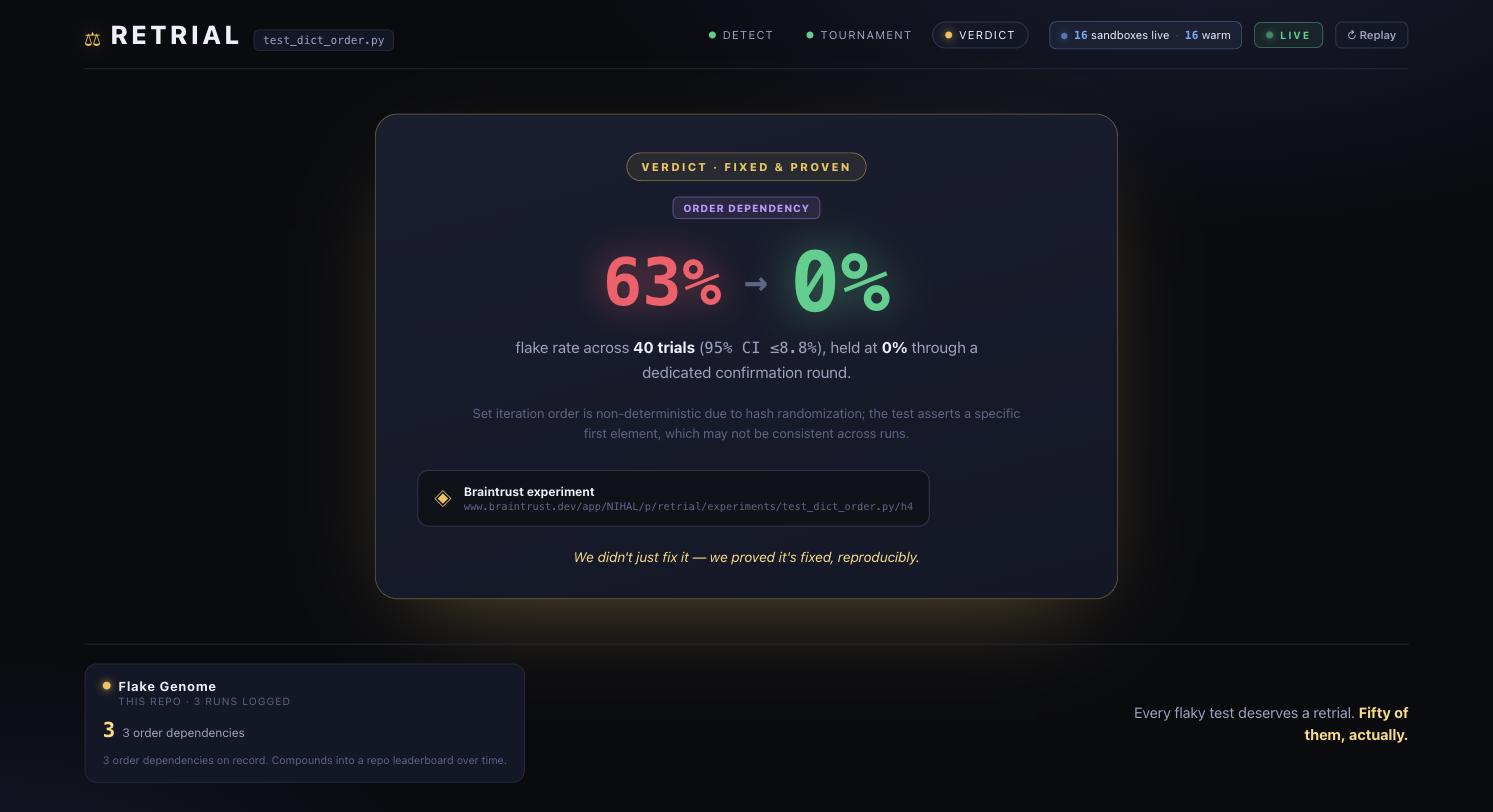
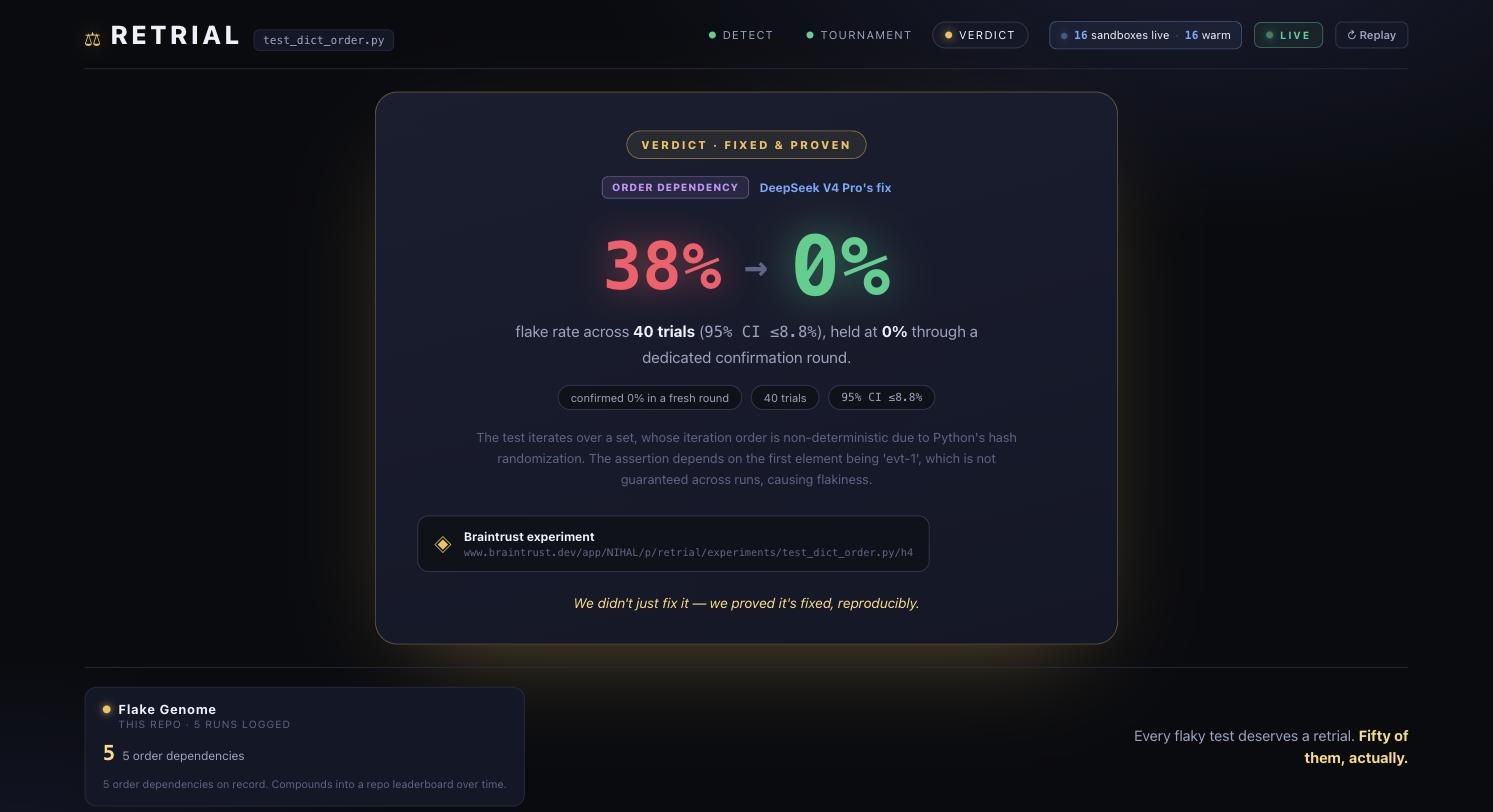
UI polish: model attribution on lanes+verdict, elimination stamps, confirmation chips, CI dedupe; re-recorded README GIF + verdict still with new UI

diff --git a/ui/src/components/TournamentPhase.tsx b/ui/src/components/TournamentPhase.tsx
@@ -1,10 +1,12 @@
-import { ciText } from '../format';
 import { FlakeMeter } from './FlakeMeter';
 import { TrialGrid } from './TrialGrid';
+import { modelForHypothesis } from '../models';
 import type { Hypothesis } from '../types';
 
 interface Props {
   hypotheses: Hypothesis[];
+  // real model slugs (round-robined across hypotheses in order); null => omit
+  modelNames: string[] | null;
 }
 
 const CAUSE_LABEL: Record<string, string> = {
@@ -19,7 +21,7 @@ const causeLabel = (c: string) =>
 
 // Act 2 — the fix tournament. One lane per hypothesis; each races its patched
 // test through fresh reruns. Losers grey out with a strike.
-export function TournamentPhase({ hypotheses }: Props) {
+export function TournamentPhase({ hypotheses, modelNames }: Props) {
   return (
     <section className="phase tournament-phase">
       <header className="phase-head">
@@ -30,15 +32,15 @@ export function TournamentPhase({ hypotheses }: Props) {
       </header>
 
       <div className="lanes">
-        {hypotheses.map((h) => (
-          <Lane key={h.id} h={h} />
+        {hypotheses.map((h, i) => (
+          <Lane key={h.id} h={h} model={modelForHypothesis(modelNames, i)} />
         ))}
       </div>
     </section>
   );
 }
 
-function Lane({ h }: { h: Hypothesis }) {
+function Lane({ h, model }: { h: Hypothesis; model: string | null }) {
   const eliminated = h.status === 'eliminated';
   const winner = h.status === 'winner';
   const statusText =
@@ -49,11 +51,12 @@ function Lane({ h }: { h: Hypothesis }) {
       <div className="lane-left">
         <div className="lane-head">
           <span className={`cause-tag cause-${h.causeClass}`}>{causeLabel(h.causeClass)}</span>
+          {model && <span className="model-chip">· {model}</span>}
           <span className={`lane-status status-${h.status}`}>{statusText}</span>
         </div>
         <p className="lane-explanation">{h.explanation}</p>
         {eliminated && h.eliminatedReason && (
-          <p className="lane-reason">✕ {h.eliminatedReason}</p>
+          <p className="lane-reason">ELIMINATED — {h.eliminatedReason}</p>
         )}
       </div>
 
@@ -70,9 +73,6 @@ function Lane({ h }: { h: Hypothesis }) {
           ci={h.wilsonCi}
           label={winner ? 'flake rate' : 'live flake rate'}
         />
-        {(h.status === 'verified' || winner) && h.wilsonCi && (
-          <div className="lane-ci mono">{ciText(h.wilsonCi)}</div>
-        )}
       </div>
 
       {eliminated && <div className="lane-strike" aria-hidden="true" />}

diff --git a/ui/src/components/TournamentBoard.tsx b/ui/src/components/TournamentBoard.tsx
@@ -1,5 +1,6 @@
 import { useEventStream } from '../useEventStream';
 import { useDaytonaHealth, type PoolHealth } from '../useDaytonaHealth';
+import { modelForHypothesis } from '../models';
 import type { ConnectionMode, Phase } from '../types';
 import { DiagnosingView } from './DiagnosingView';
 import { DetectPhase } from './DetectPhase';
@@ -43,8 +44,12 @@ export function TournamentBoard({ onRestart }: Props) {
     genome,
     prUrl,
   } = state;
-  const winnerHyp = winner ? hypotheses.find((h) => h.id === winner.id) : undefined;
-  const bestHyp = quarantine ? hypotheses.find((h) => h.id === quarantine.bestId) : undefined;
+  const winnerIdx = winner ? hypotheses.findIndex((h) => h.id === winner.id) : -1;
+  const bestIdx = quarantine ? hypotheses.findIndex((h) => h.id === quarantine.bestId) : -1;
+  const winnerHyp = winnerIdx >= 0 ? hypotheses[winnerIdx] : undefined;
+  const bestHyp = bestIdx >= 0 ? hypotheses[bestIdx] : undefined;
+  const winnerModel = modelForHypothesis(diagnoseModelNames, winnerIdx);
+  const bestModel = modelForHypothesis(diagnoseModelNames, bestIdx);
 
   return (
     <div className="board">
@@ -67,9 +72,17 @@ export function TournamentBoard({ onRestart }: Props) {
         {phase === 'detect' && (
           <DetectPhase detect={detect} expectedTrials={plannedTrials ?? DETECT_EXPECTED} />
         )}
-        {phase === 'tournament' && <TournamentPhase hypotheses={hypotheses} />}
+        {phase === 'tournament' && (
+          <TournamentPhase hypotheses={hypotheses} modelNames={diagnoseModelNames} />
+        )}
         {phase === 'winner' && winner && (
-          <WinnerCard winner={winner} hypothesis={winnerHyp} detect={detect} prUrl={prUrl} />
+          <WinnerCard
+            winner={winner}
+            hypothesis={winnerHyp}
+            detect={detect}
+            prUrl={prUrl}
+            model={winnerModel}
+          />
         )}
         {phase === 'quarantine' && quarantine && (
           <QuarantineCard
@@ -77,6 +90,7 @@ export function TournamentBoard({ onRestart }: Props) {
             bestHypothesis={bestHyp}
             detect={detect}
             prUrl={prUrl}
+            model={bestModel}
           />
         )}
       </main>

diff --git a/ui/src/components/WinnerCard.tsx b/ui/src/components/WinnerCard.tsx
@@ -7,6 +7,7 @@ interface Props {
   hypothesis: Hypothesis | undefined;
   detect: DetectState;
   prUrl: string | null;
+  model: string | null; // prettified winning model, when known
 }
 
 const CAUSE_LABEL: Record<string, string> = {
@@ -20,11 +21,15 @@ const causeLabel = (c: string) =>
 
 // The verdict. Clean, no confetti: the before→after number, the CI, and the
 // two governance receipts (Braintrust permalink + the opened PR).
-export function WinnerCard({ winner, hypothesis, detect, prUrl }: Props) {
+export function WinnerCard({ winner, hypothesis, detect, prUrl, model }: Props) {
   // prefer the confirmed winner's own numbers; fall back to detect/hypothesis
   const before = winner.origFlakeRate ?? detect.flakeRate ?? 0.48;
   const trials = hypothesis?.trials.length ?? 50;
   const ci = winner.wilsonCi ?? hypothesis?.wilsonCi ?? null;
+  const confirmChip =
+    winner.confirmTrials != null
+      ? `confirmed ${Math.round(winner.confirmFlakeRate * winner.confirmTrials)}/${winner.confirmTrials} in a fresh round`
+      : `confirmed ${pct(winner.confirmFlakeRate)} in a fresh round`;
 
   return (
     <section className="phase winner-phase">
@@ -36,6 +41,7 @@ export function WinnerCard({ winner, hypothesis, detect, prUrl }: Props) {
             <span className={`cause-tag cause-${hypothesis.causeClass}`}>
               {causeLabel(hypothesis.causeClass)}
             </span>
+            {model && <span className="winner-model">{model}'s fix</span>}
           </div>
         )}
 
@@ -55,6 +61,12 @@ export function WinnerCard({ winner, hypothesis, detect, prUrl }: Props) {
           , held at <strong>{pct(winner.confirmFlakeRate)}</strong> through a dedicated
           confirmation round.
         </p>
+
+        <div className="verdict-chips">
+          <span className="verdict-chip">{confirmChip}</span>
+          <span className="verdict-chip">{trials} trials</span>
+          {ci && <span className="verdict-chip mono">95% CI {ciUpper(ci)}</span>}
+        </div>
 
         {hypothesis && <p className="winner-explanation">{hypothesis.explanation}</p>}
 

diff --git a/ui/src/components/QuarantineCard.tsx b/ui/src/components/QuarantineCard.tsx
@@ -7,6 +7,7 @@ interface Props {
   bestHypothesis: Hypothesis | undefined;
   detect: DetectState;
   prUrl: string | null;
+  model: string | null; // prettified best-effort model, when known
 }
 
 const CAUSE_LABEL: Record<string, string> = {
@@ -21,7 +22,7 @@ const causeLabel = (c: string) =>
 // The no-dead-end verdict: nothing stabilized the test, so we quarantine it
 // WITH the full evidence dossier. Amber tone — a real, useful outcome, not a
 // failure. The receipts still ship (Braintrust autopsy + quarantine PR).
-export function QuarantineCard({ quarantine, bestHypothesis, detect, prUrl }: Props) {
+export function QuarantineCard({ quarantine, bestHypothesis, detect, prUrl, model }: Props) {
   const before = detect.flakeRate ?? 0.48;
 
   return (
@@ -47,7 +48,8 @@ export function QuarantineCard({ quarantine, bestHypothesis, detect, prUrl }: Pr
           </div>
         </div>
         <p className="quarantine-ci mono">
-          best candidate over {quarantine.trials} trials · {ciText(quarantine.wilsonCi)}
+          best candidate{model ? ` from ${model}` : ''} over {quarantine.trials} trials ·{' '}
+          {ciText(quarantine.wilsonCi)}
         </p>
 
         {bestHypothesis && (
@@ -55,6 +57,7 @@ export function QuarantineCard({ quarantine, bestHypothesis, detect, prUrl }: Pr
             <span className={`cause-tag cause-${bestHypothesis.causeClass}`}>
               {causeLabel(bestHypothesis.causeClass)}
             </span>
+            {model && <span className="model-chip">· {model}</span>}
             <span className="quarantine-best-label">closest cause</span>
             <p className="quarantine-best-exp">{bestHypothesis.explanation}</p>
           </div>

diff --git a/ui/src/models.ts b/ui/src/models.ts
@@ -1,0 +1,38 @@
+// Model attribution helpers. The engine round-robins the models from the
+// `diagnosing` event across hypotheses IN ORDER (h1→models[0], h2→models[1],…),
+// so a hypothesis's model is looked up by its creation index. Names are shown
+// ONLY when real slugs arrived — never fabricated.
+
+const KNOWN: Record<string, string> = {
+  glm: 'GLM',
+  deepseek: 'DeepSeek',
+  kimi: 'Kimi',
+  minimax: 'MiniMax',
+  qwen: 'Qwen',
+  llama: 'Llama',
+};
+
+// Prettify a real Fireworks slug: strip any path prefix and turn the "p"
+// version separator back into a dot ("glm-5p2" -> "GLM 5.2"). Applied ONLY to
+// slugs that actually came from the engine.
+export function prettyModel(slug: string): string {
+  const base = slug.split('/').pop() ?? slug;
+  return base
+    .split(/[-_]/)
+    .filter(Boolean)
+    .map((tok) => {
+      const dotted = tok.replace(/(\d)p(\d)/g, '$1.$2');
+      const lower = dotted.toLowerCase();
+      if (KNOWN[lower]) return KNOWN[lower];
+      if (/^[a-z]+$/.test(dotted)) return dotted.charAt(0).toUpperCase() + dotted.slice(1);
+      return dotted.toUpperCase(); // tokens with digits: v4 -> V4, k2.6 -> K2.6
+    })
+    .join(' ');
+}
+
+// The prettified model for the hypothesis at `index`, or null if no real
+// model list was received (so callers omit attribution silently).
+export function modelForHypothesis(models: string[] | null, index: number): string | null {
+  if (!models || index < 0 || index >= models.length) return null;
+  return prettyModel(models[index]);
+}

diff --git a/ui/src/styles.css b/ui/src/styles.css
@@ -554,6 +554,14 @@ body {
 }
 .lane.eliminated {
   opacity: 0.5;
+  /* brief red flash the moment evidence knocks the theory out */
+  animation: elim-flash 0.7s ease;
+}
+.model-chip {
+  font-family: var(--mono);
+  font-size: 12px;
+  color: var(--accent);
+  letter-spacing: 0.02em;
 }
 .lane-strike {
   position: absolute;
@@ -698,6 +706,30 @@ body {
 }
 .winner-cause {
   margin-top: 20px;
+  display: flex;
+  align-items: center;
+  justify-content: center;
+  gap: 12px;
+}
+.winner-model {
+  font-size: 14px;
+  font-weight: 700;
+  color: var(--accent);
+}
+.verdict-chips {
+  display: flex;
+  flex-wrap: wrap;
+  justify-content: center;
+  gap: 10px;
+  margin: 18px 0 4px;
+}
+.verdict-chip {
+  font-size: 13px;
+  color: var(--ink-dim);
+  background: var(--bg-2);
+  border: 1px solid var(--line-2);
+  border-radius: 999px;
+  padding: 6px 14px;
 }
 .winner-numbers {
   display: flex;
@@ -1171,6 +1203,23 @@ body {
   }
   to {
     transform: scaleX(1);
+  }
+}
+@keyframes elim-flash {
+  0% {
+    opacity: 1;
+    border-color: var(--fail);
+    box-shadow: 0 0 0 1px var(--fail), 0 0 26px -4px var(--fail-glow);
+  }
+  35% {
+    opacity: 0.85;
+    border-color: var(--fail);
+    box-shadow: 0 0 0 1px var(--fail), 0 0 30px -2px var(--fail-glow);
+  }
+  100% {
+    opacity: 0.5;
+    border-color: var(--line);
+    box-shadow: none;
   }
 }
 @keyframes scan-sweep {

diff --git a/ui/src/components/DiagnosingView.tsx b/ui/src/components/DiagnosingView.tsx
@@ -1,4 +1,5 @@
 import { useEffect, useState } from 'react';
+import { prettyModel } from '../models';
 
 interface Props {
   testName: string | null;
@@ -7,32 +8,6 @@ interface Props {
   // showing models we may not run is a checkable false claim to the Fireworks
   // judge. Absent => generic "Model 1…n".
   modelNames?: string[] | null;
-}
-
-// Prettify a real Fireworks slug for display: strip any path prefix and turn
-// the "p" version separator back into a dot ("glm-5p2" -> "GLM 5.2"). Applied
-// ONLY to slugs that actually came from the engine.
-function prettyModel(slug: string): string {
-  const known: Record<string, string> = {
-    glm: 'GLM',
-    deepseek: 'DeepSeek',
-    kimi: 'Kimi',
-    minimax: 'MiniMax',
-    qwen: 'Qwen',
-    llama: 'Llama',
-  };
-  const base = slug.split('/').pop() ?? slug;
-  return base
-    .split(/[-_]/)
-    .filter(Boolean)
-    .map((tok) => {
-      const dotted = tok.replace(/(\d)p(\d)/g, '$1.$2');
-      const lower = dotted.toLowerCase();
-      if (known[lower]) return known[lower];
-      if (/^[a-z]+$/.test(dotted)) return dotted.charAt(0).toUpperCase() + dotted.slice(1);
-      return dotted.toUpperCase(); // tokens with digits: v4 -> V4, k2.6 -> K2.6
-    })
-    .join(' ');
 }
 
 // The cause-classes the models flicker through while they think. Purely

diff --git a/ui/src/mockRun.ts b/ui/src/mockRun.ts
@@ -21,7 +21,7 @@ export type MockOutcome = 'winner' | 'quarantine';
 // A recorded frame: a real event plus capture metadata the reducer ignores.
 type RawFrame = RetrialEvent & { _t?: number; seq?: number; ts?: number };
 
-const COMPRESS = 1.7; // 1.5-2x faster than wall-clock
+const COMPRESS = 0.5; // 1.5-2x faster than wall-clock
 const MIN_GAP_MS = 30;
 const MAX_GAP_MS = 4000; // caps the ~25s live-diagnosis window for replay
 const STITCH_MS = 250; // gap inserted where two segments are joined (_t resets)
@@ -74,5 +74,10 @@ export function buildMockScript(outcome: MockOutcome = 'winner'): ScriptedEvent[
     return buildSchedule(sliceQuarantine(realRunQuarantine as unknown as RawFrame[]));
   }
   // The winning capture is a single clean run — play it as recorded.
-  return buildSchedule(realRun as unknown as RawFrame[]);
+  const frames = (realRun as unknown as RawFrame[]).map((f) =>
+    f.type === 'diagnosing'
+      ? { ...f, models: ['accounts/fireworks/models/glm-5p2', 'glm-5p1', 'kimi-k2p6', 'deepseek-v4-pro'] }
+      : f,
+  );
+  return buildSchedule(frames);
 }

diff --git a/ui/src/types.ts b/ui/src/types.ts
@@ -65,6 +65,7 @@ export interface WinnerConfirmed {
   id: string;
   flake_rate: number; // rate during the tournament round
   confirm_flake_rate: number; // rate during the dedicated confirmation round
+  confirm_trials?: number; // trials in the confirmation round, when reported
   wilson_ci?: WilsonCI; // CI of the confirmed winner
   orig_flake_rate?: number; // baseline flake before the fix
   braintrust_url?: string; // real Braintrust experiment permalink (the receipt)
@@ -150,6 +151,7 @@ export interface WinnerState {
   id: string;
   flakeRate: number;
   confirmFlakeRate: number;
+  confirmTrials: number | null;
   wilsonCi: WilsonCI | null;
   origFlakeRate: number | null;
   braintrustUrl: string | null;

diff --git a/ui/src/reducer.ts b/ui/src/reducer.ts
@@ -149,6 +149,7 @@ export function reduce(state: BoardState, event: RetrialEvent): BoardState {
           id: event.id,
           flakeRate: event.flake_rate,
           confirmFlakeRate: event.confirm_flake_rate,
+          confirmTrials: event.confirm_trials ?? null,
           wilsonCi: event.wilson_ci ?? null,
           origFlakeRate: event.orig_flake_rate ?? null,
           braintrustUrl: event.braintrust_url ?? null,
